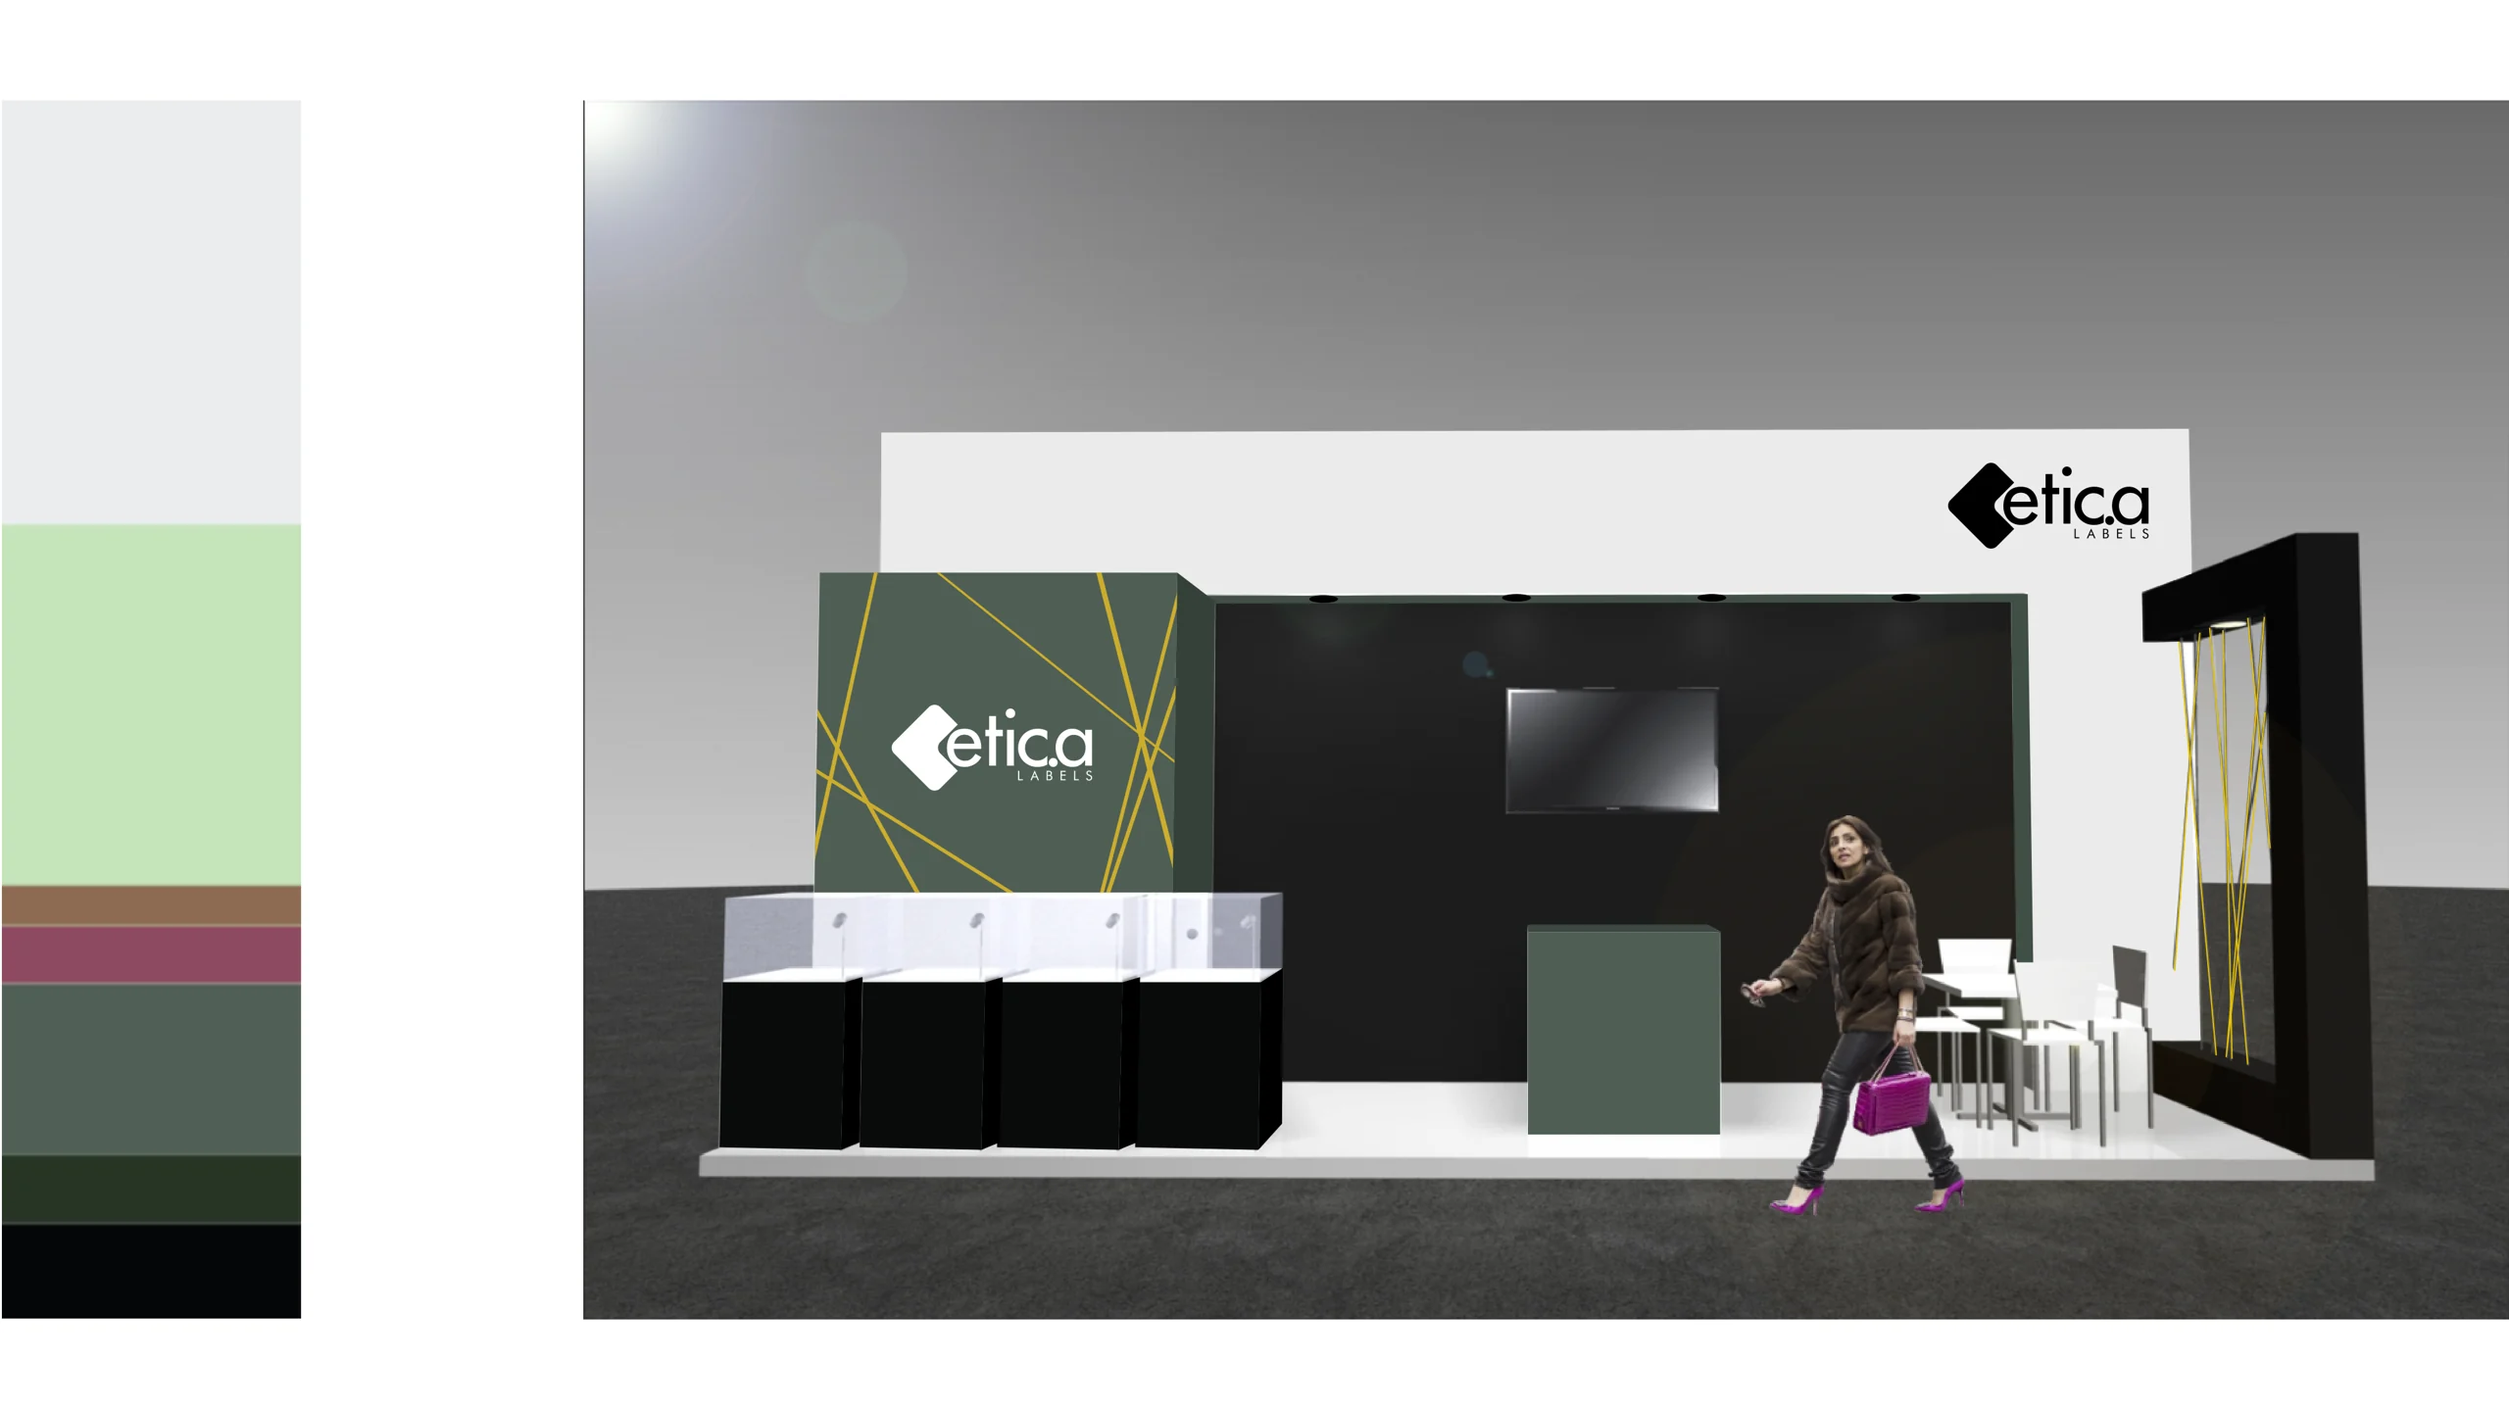
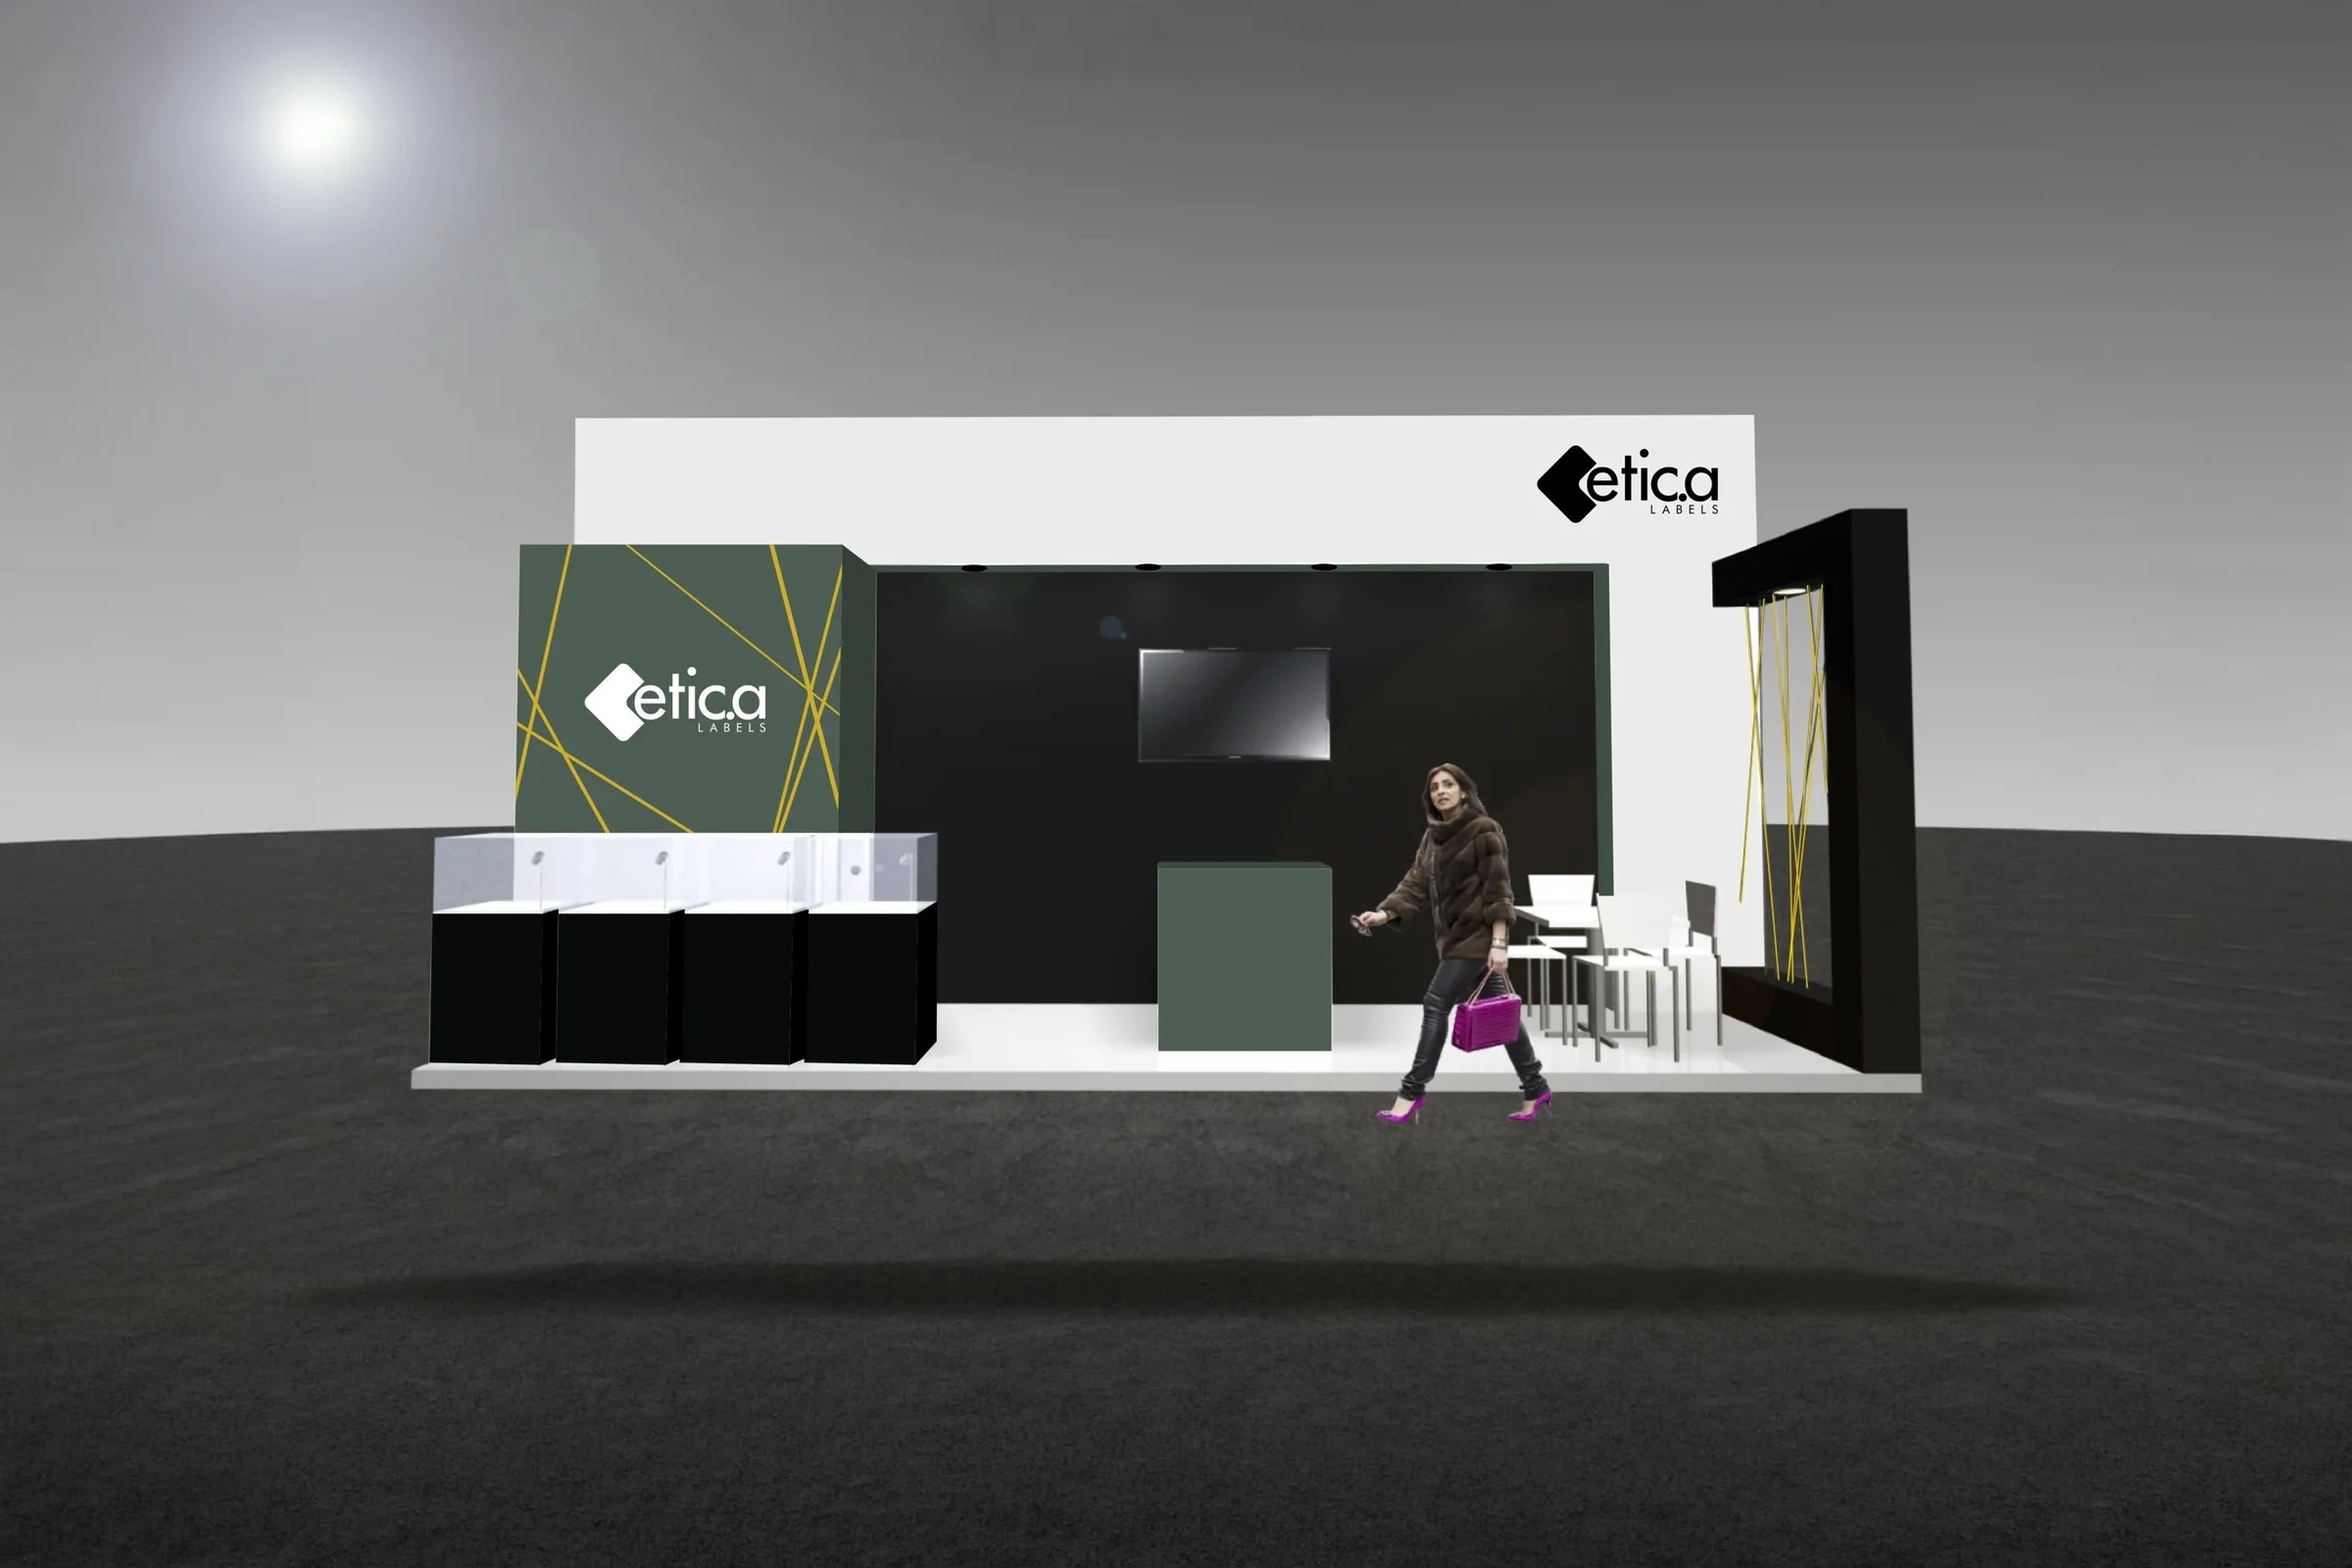
Etica: stand centrati con più aria intorno

diff --git a/_progetti/etica.md b/_progetti/etica.md
@@ -145,14 +145,14 @@ galleria:
     testo: Gli stand per Marca e Cosmopack.
     testo_en: The stands for Marca and Cosmopack.
   - type: foto
-    immagine: /assets/uploads/etica-stand-marca.webp
+    immagine: /assets/uploads/etica-stand-marca.webp?v=2
     titolo: Stand Marca 2023
     titolo_en: Marca 2023 stand
     didascalia: Lo stand verde e nero, con le teche per le etichette.
     didascalia_en: The green and black stand, with display cases for the labels.
     formato: meta
   - type: foto
-    immagine: /assets/uploads/etica-stand-cosmopack.webp
+    immagine: /assets/uploads/etica-stand-cosmopack.webp?v=2
     titolo: Stand Cosmopack
     titolo_en: Cosmopack stand
     didascalia: Il banco e le pareti con il marchio in grande.
